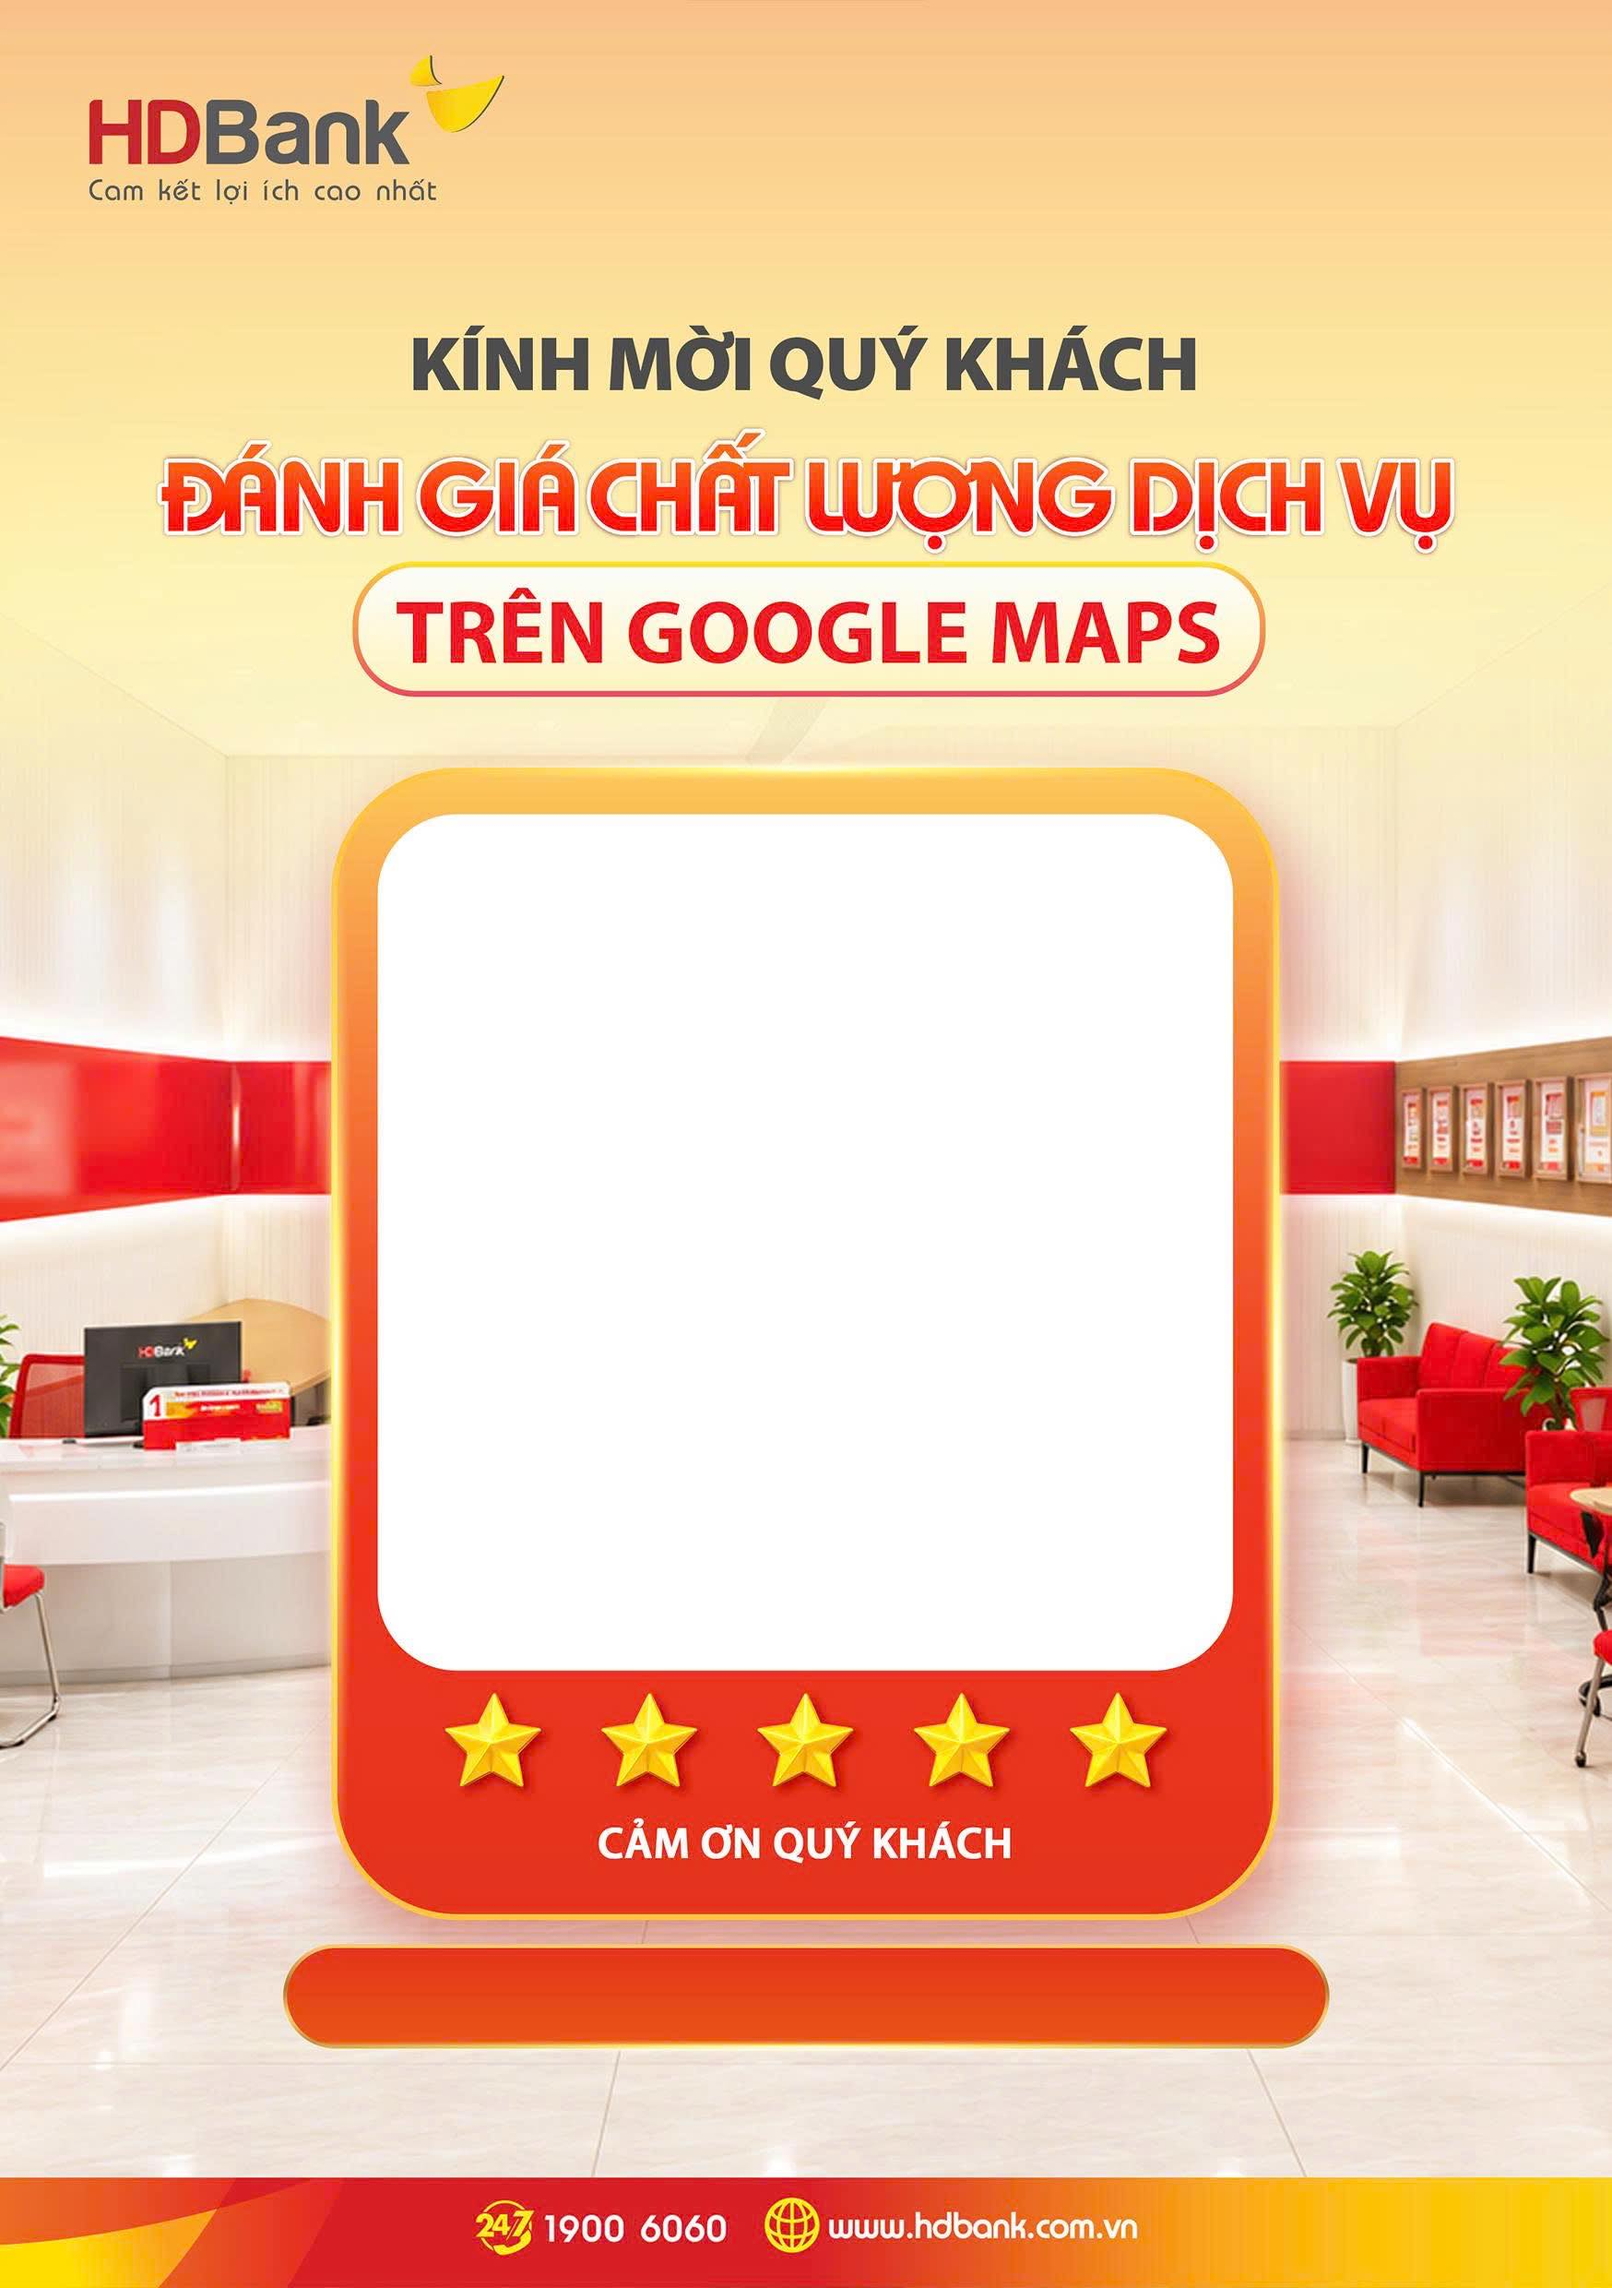
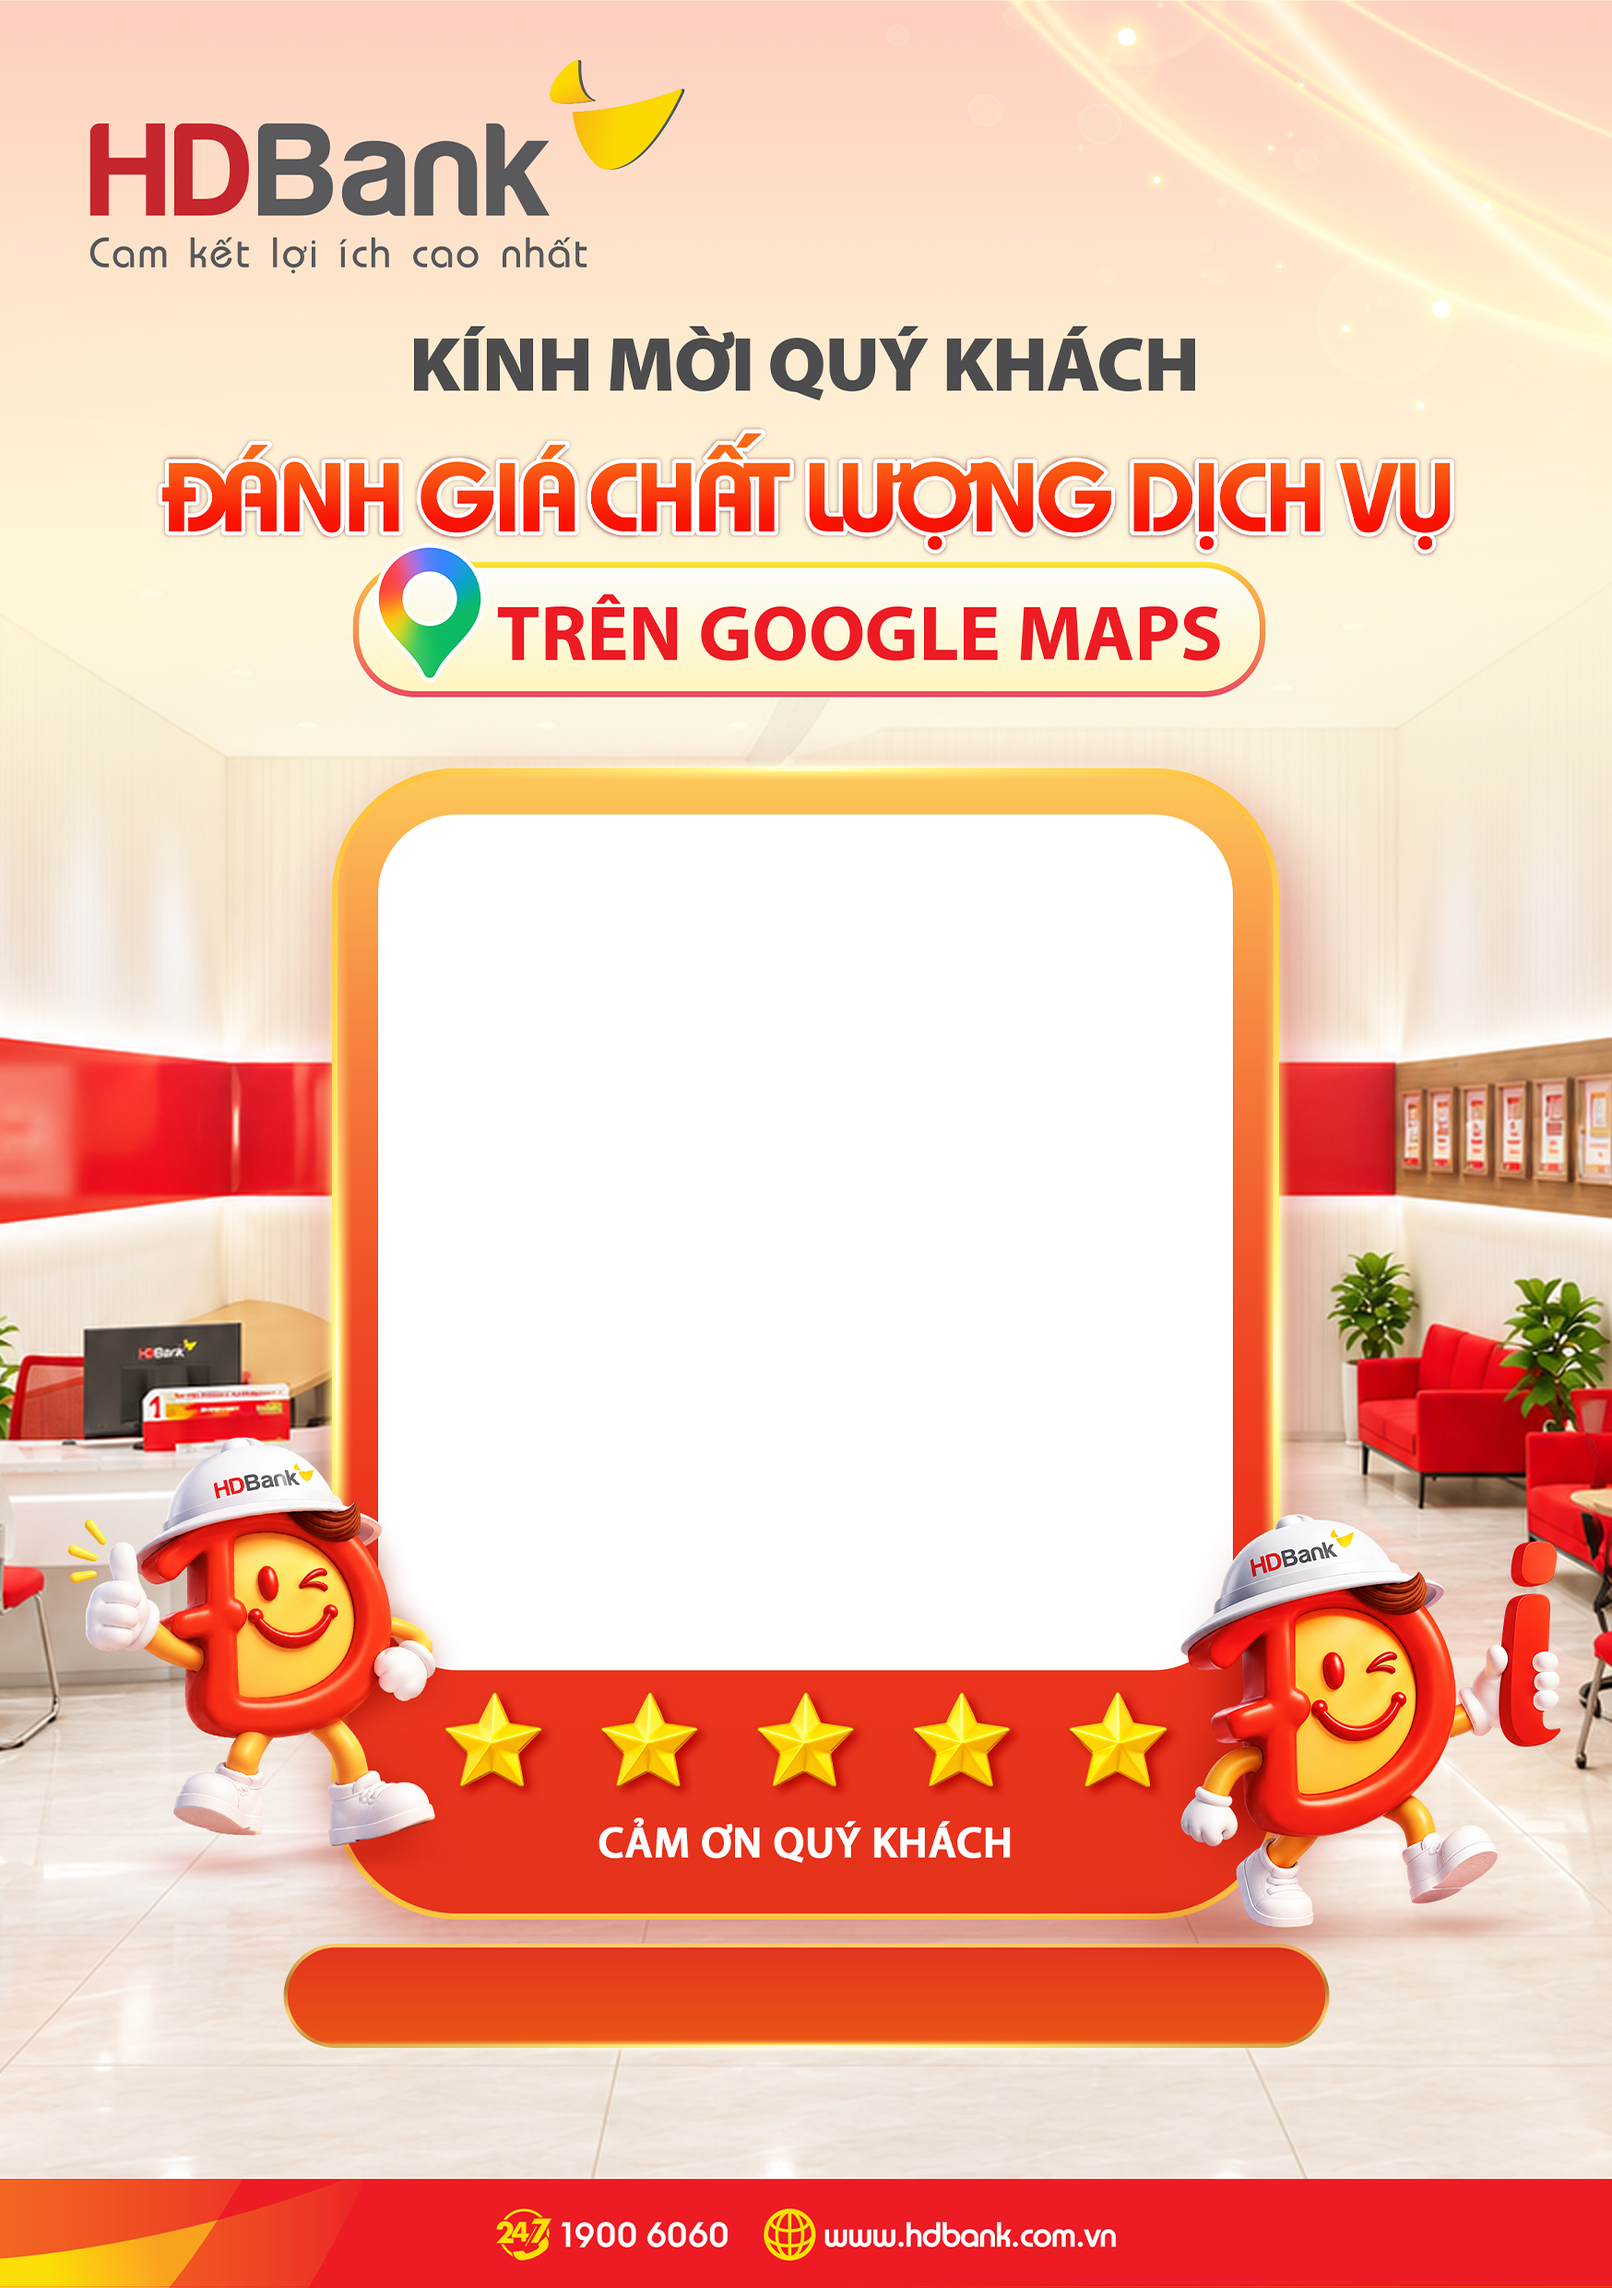
Tool QR: thiết kế nền mới có linh vật (table tent A5/A6, màn hình 9:16 1080x1920), căn lại QR và tên đơn vị, không tô nền đè lên linh vật

diff --git a/index.html b/index.html
@@ -324,10 +324,10 @@ const GRAY = "#58595b", GRAY10 = "#eeeeef";
    Toạ độ tính theo pixel của ảnh nền gốc; out = kích thước file xuất; mm = khổ trang PDF. */
 const TEMPLATES = {
   tent:  { label: "Table tent A5/A6", size: "A5 148 × 210 · A6 105 × 148 mm", bg: "assets/bg-tent.jpg", out: [1748, 2480], mm: [148, 210],
-           box: { x: 413, y: 885, s: 922 }, bar: { x: 311, y: 2113, w: 1127, h: 100 },
+           box: { x: 410, y: 883, s: 927 }, bar: { x: 312, y: 2111, w: 1125, h: 102 },
            specs: ["Standee để bàn", "A5 148 × 210 mm", "A6 105 × 148 mm"] },
   story: { label: "Màn hình dọc 9:16", size: "1080 × 1920 px", bg: "assets/bg-916.jpg", out: [1080, 1920], mm: [91.44, 162.56],
-           box: { x: 160, y: 569, s: 581 }, bar: { x: 88, y: 1342, w: 725, h: 64 },
+           box: { x: 204, y: 697, s: 673 }, bar: { x: 104, y: 1611, w: 873, h: 79 },
            specs: ["Màn hình dọc", "1080 × 1920 px", "Tỉ lệ 9:16"] },
 };
 
@@ -366,13 +366,13 @@ function drawDesign(cv) {
   const kx = W / bg.naturalWidth, ky = H / bg.naturalHeight;
   const url = state.sel ? state.sel.url : "", chk = checkUrl(url);
 
-  // ---- mã QR: căn giữa ô trắng, chừa lề trắng 4 ô mã, mỗi ô mã là số pixel nguyên để in sắc nét
+  // ---- mã QR: căn giữa ô trắng, chừa lề trắng 4 ô mã, mỗi ô mã là số pixel nguyên để in sắc nét.
+  //      Không tô thêm nền trắng: ô vốn đã trắng, tô thêm sẽ đè lên linh vật đứng chồng ở 2 góc dưới ô.
   const S = Math.min(T.box.s * kx, T.box.s * ky), bx = T.box.x * kx, by = T.box.y * ky;
   if (chk.ok) {
     const qr = qrcode(0, "M"); qr.addData(url); qr.make();
     const n = qr.getModuleCount(), cell = Math.floor(S / (n + 8)), size = cell * n;
     const x0 = Math.round(bx + (S - size) / 2), y0 = Math.round(by + (S - size) / 2);
-    ctx.fillStyle = "#ffffff"; ctx.fillRect(x0 - cell * 4, y0 - cell * 4, size + cell * 8, size + cell * 8);
     ctx.fillStyle = "#000000";
     for (let r = 0; r < n; r++) for (let c = 0; c < n; c++) if (qr.isDark(r, c)) ctx.fillRect(x0 + c * cell, y0 + r * cell, cell, cell);
   } else {
